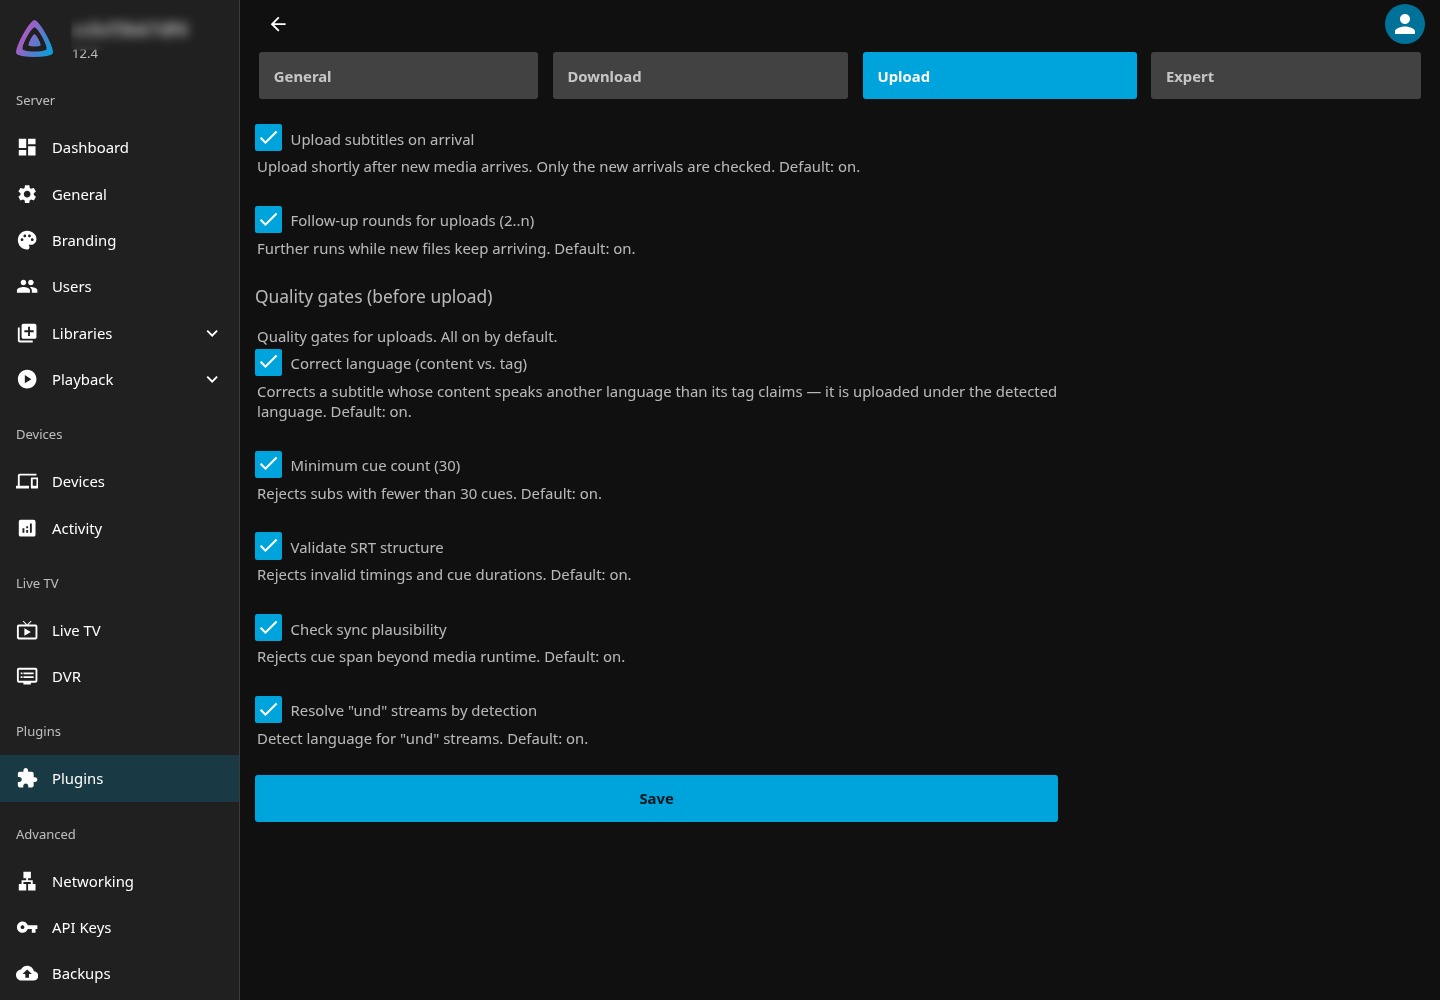
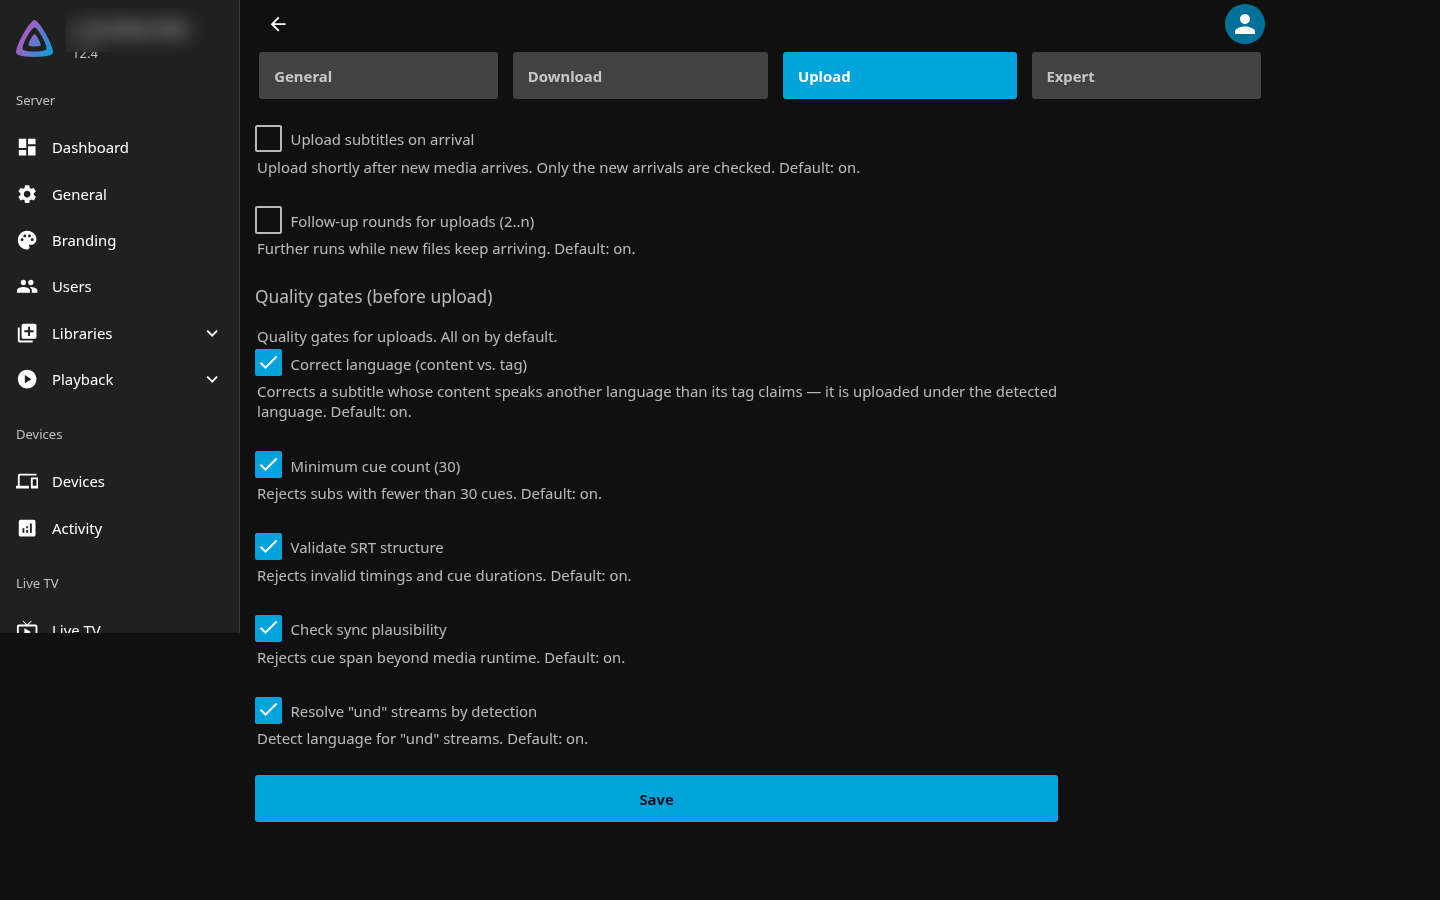
readme: Bilder fuer Download- und Upload-Reiter neu (Upload aus, E-Mail und Serverkennung verdeckt)

diff --git a/README.md b/README.md
@@ -26,11 +26,11 @@ source's own file:
 **Download** — what gets fetched, when a run happens, and the quality gates a subtitle has to pass
 before it is saved:
 
-![Download settings](docs/images/config-download.png?v=12.3.8.55)
+![Download settings](docs/images/config-download.png?v=12.3.8.59)
 
 **Upload** — off by default; the same shape as the download side, with its own gates:
 
-![Upload settings](docs/images/config-upload.png?v=12.3.8.55)
+![Upload settings](docs/images/config-upload.png?v=12.3.8.59)
 
 ## Requirements
 
